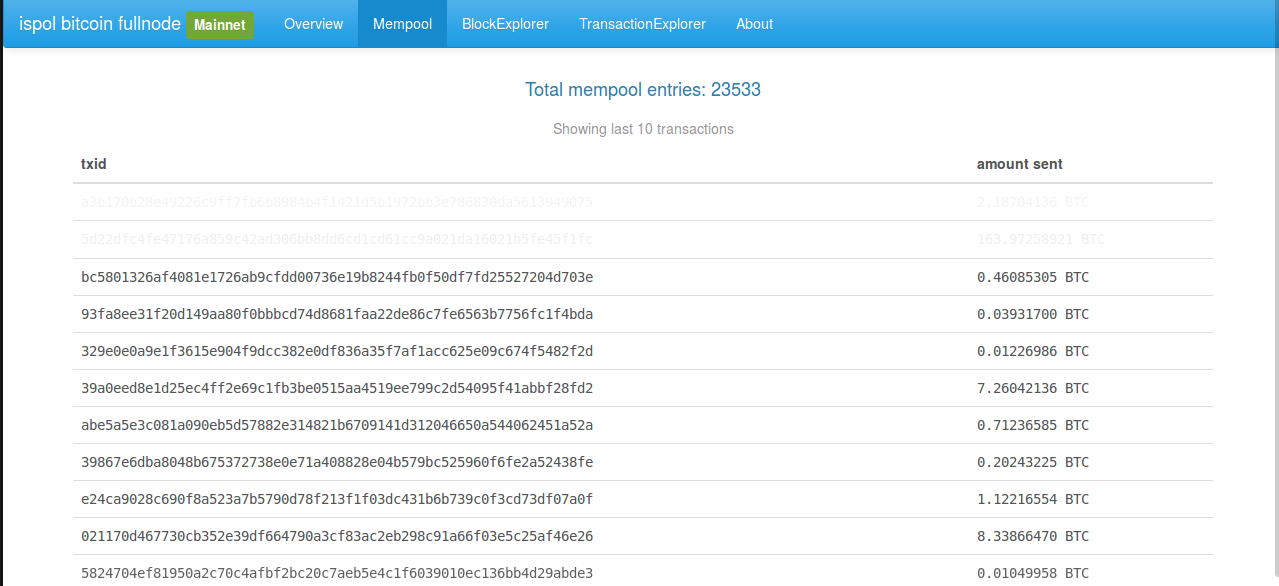
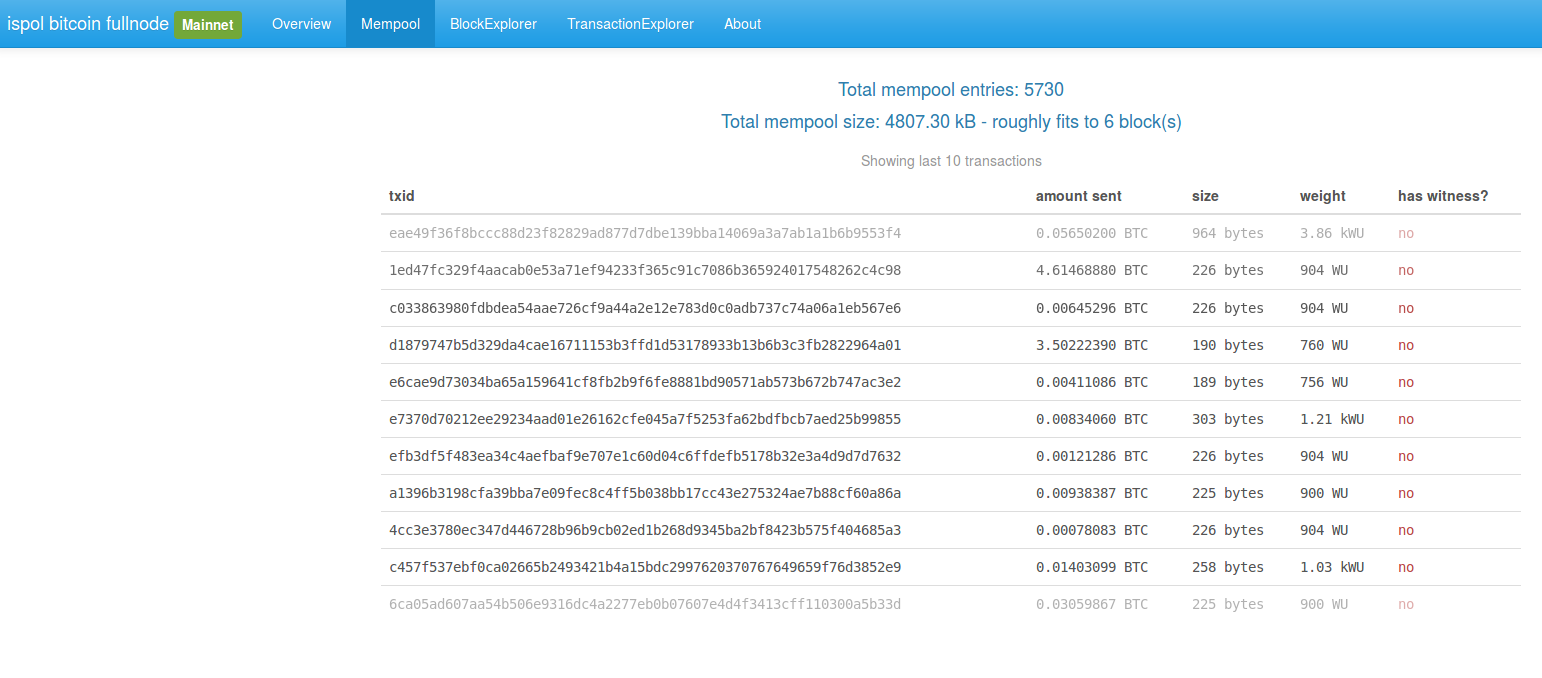
updated mempool doc image

diff --git a/static/templates/mempool.html b/static/templates/mempool.html
@@ -1,5 +1,5 @@
 <h4 class="text-center">Total mempool entries: {{mempoolEntry.size|| 0}}</h4>
-<h4 class="text-center">Total mempool size: {{(mempoolEntry.bytes | bytes:'kB') || 0}} - roughly fits to {{((mempoolEntry.bytes/1000000) + 1).toFixed(0)}} block(s)</h4>
+<h4 class="text-center">Total mempool size: {{(mempoolEntry.bytes | bytes:'kB') || 0}} - roughly fits to {{mempoolEntry.fitsToBlocksCount}} block(s)</h4>
 <p class="text-center"></p>
 <table class="table table-responsive">
     <caption class="text-center">Showing last {{txes.length < showN ? txes.length : showN}} transactions</caption>
